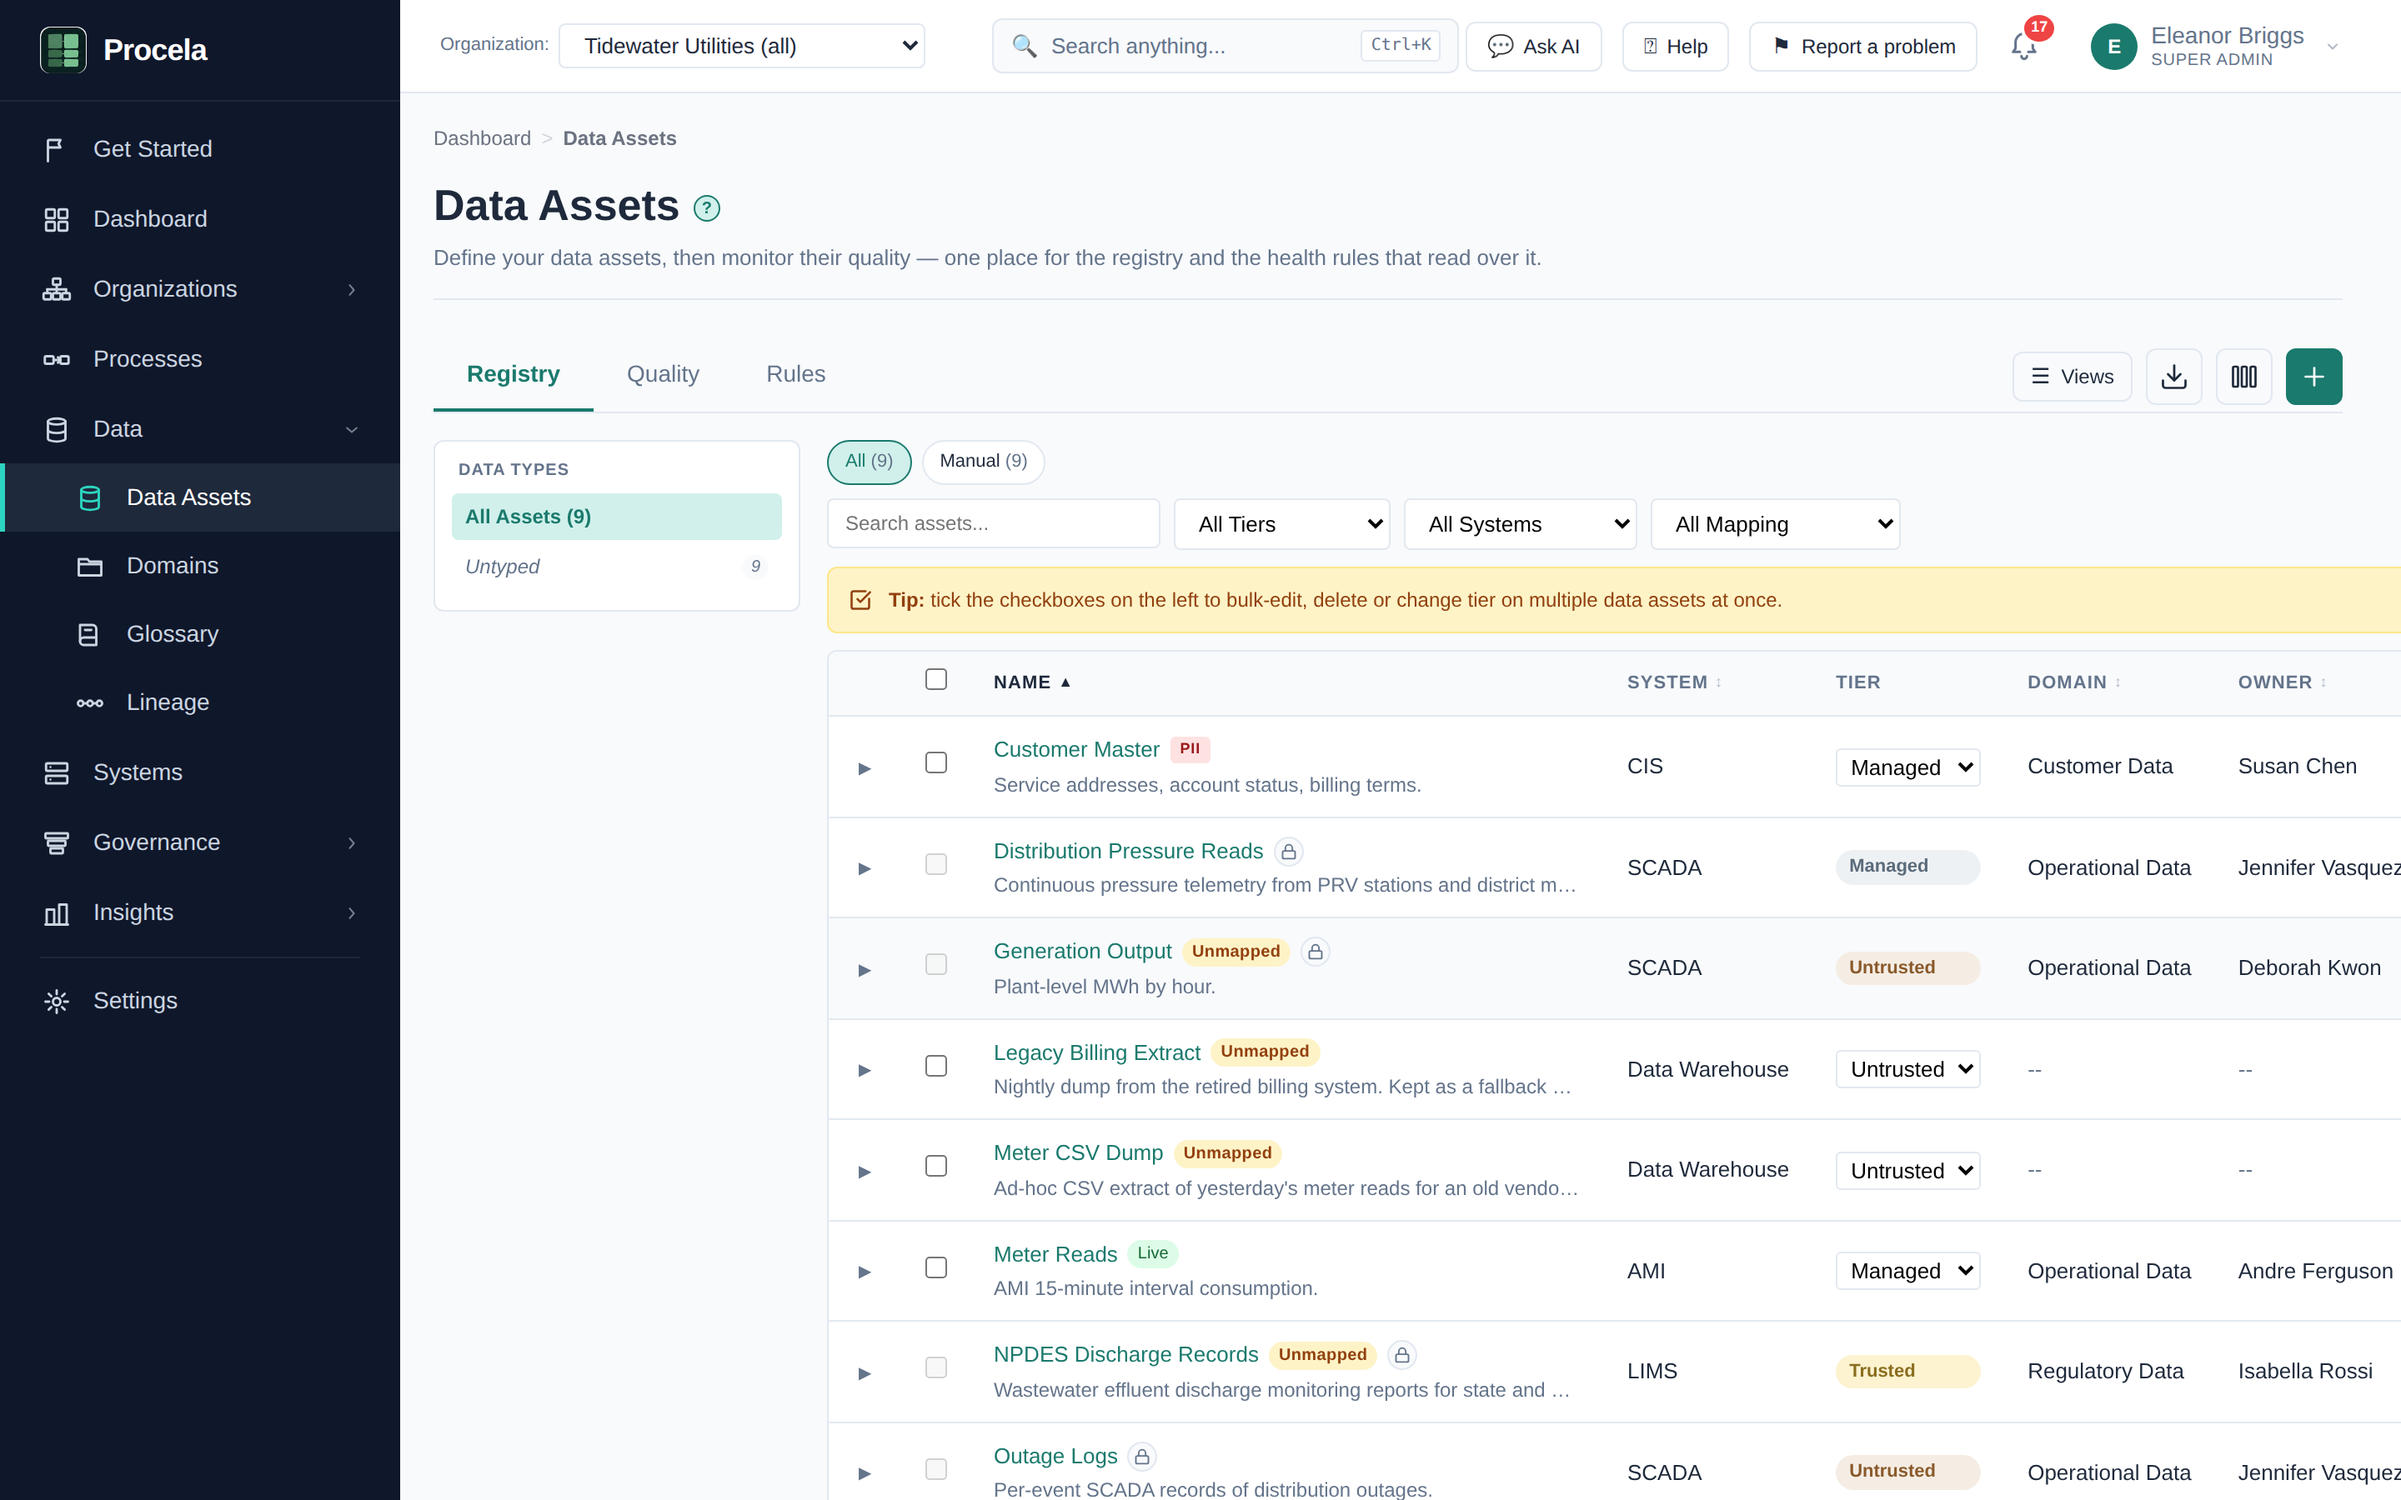
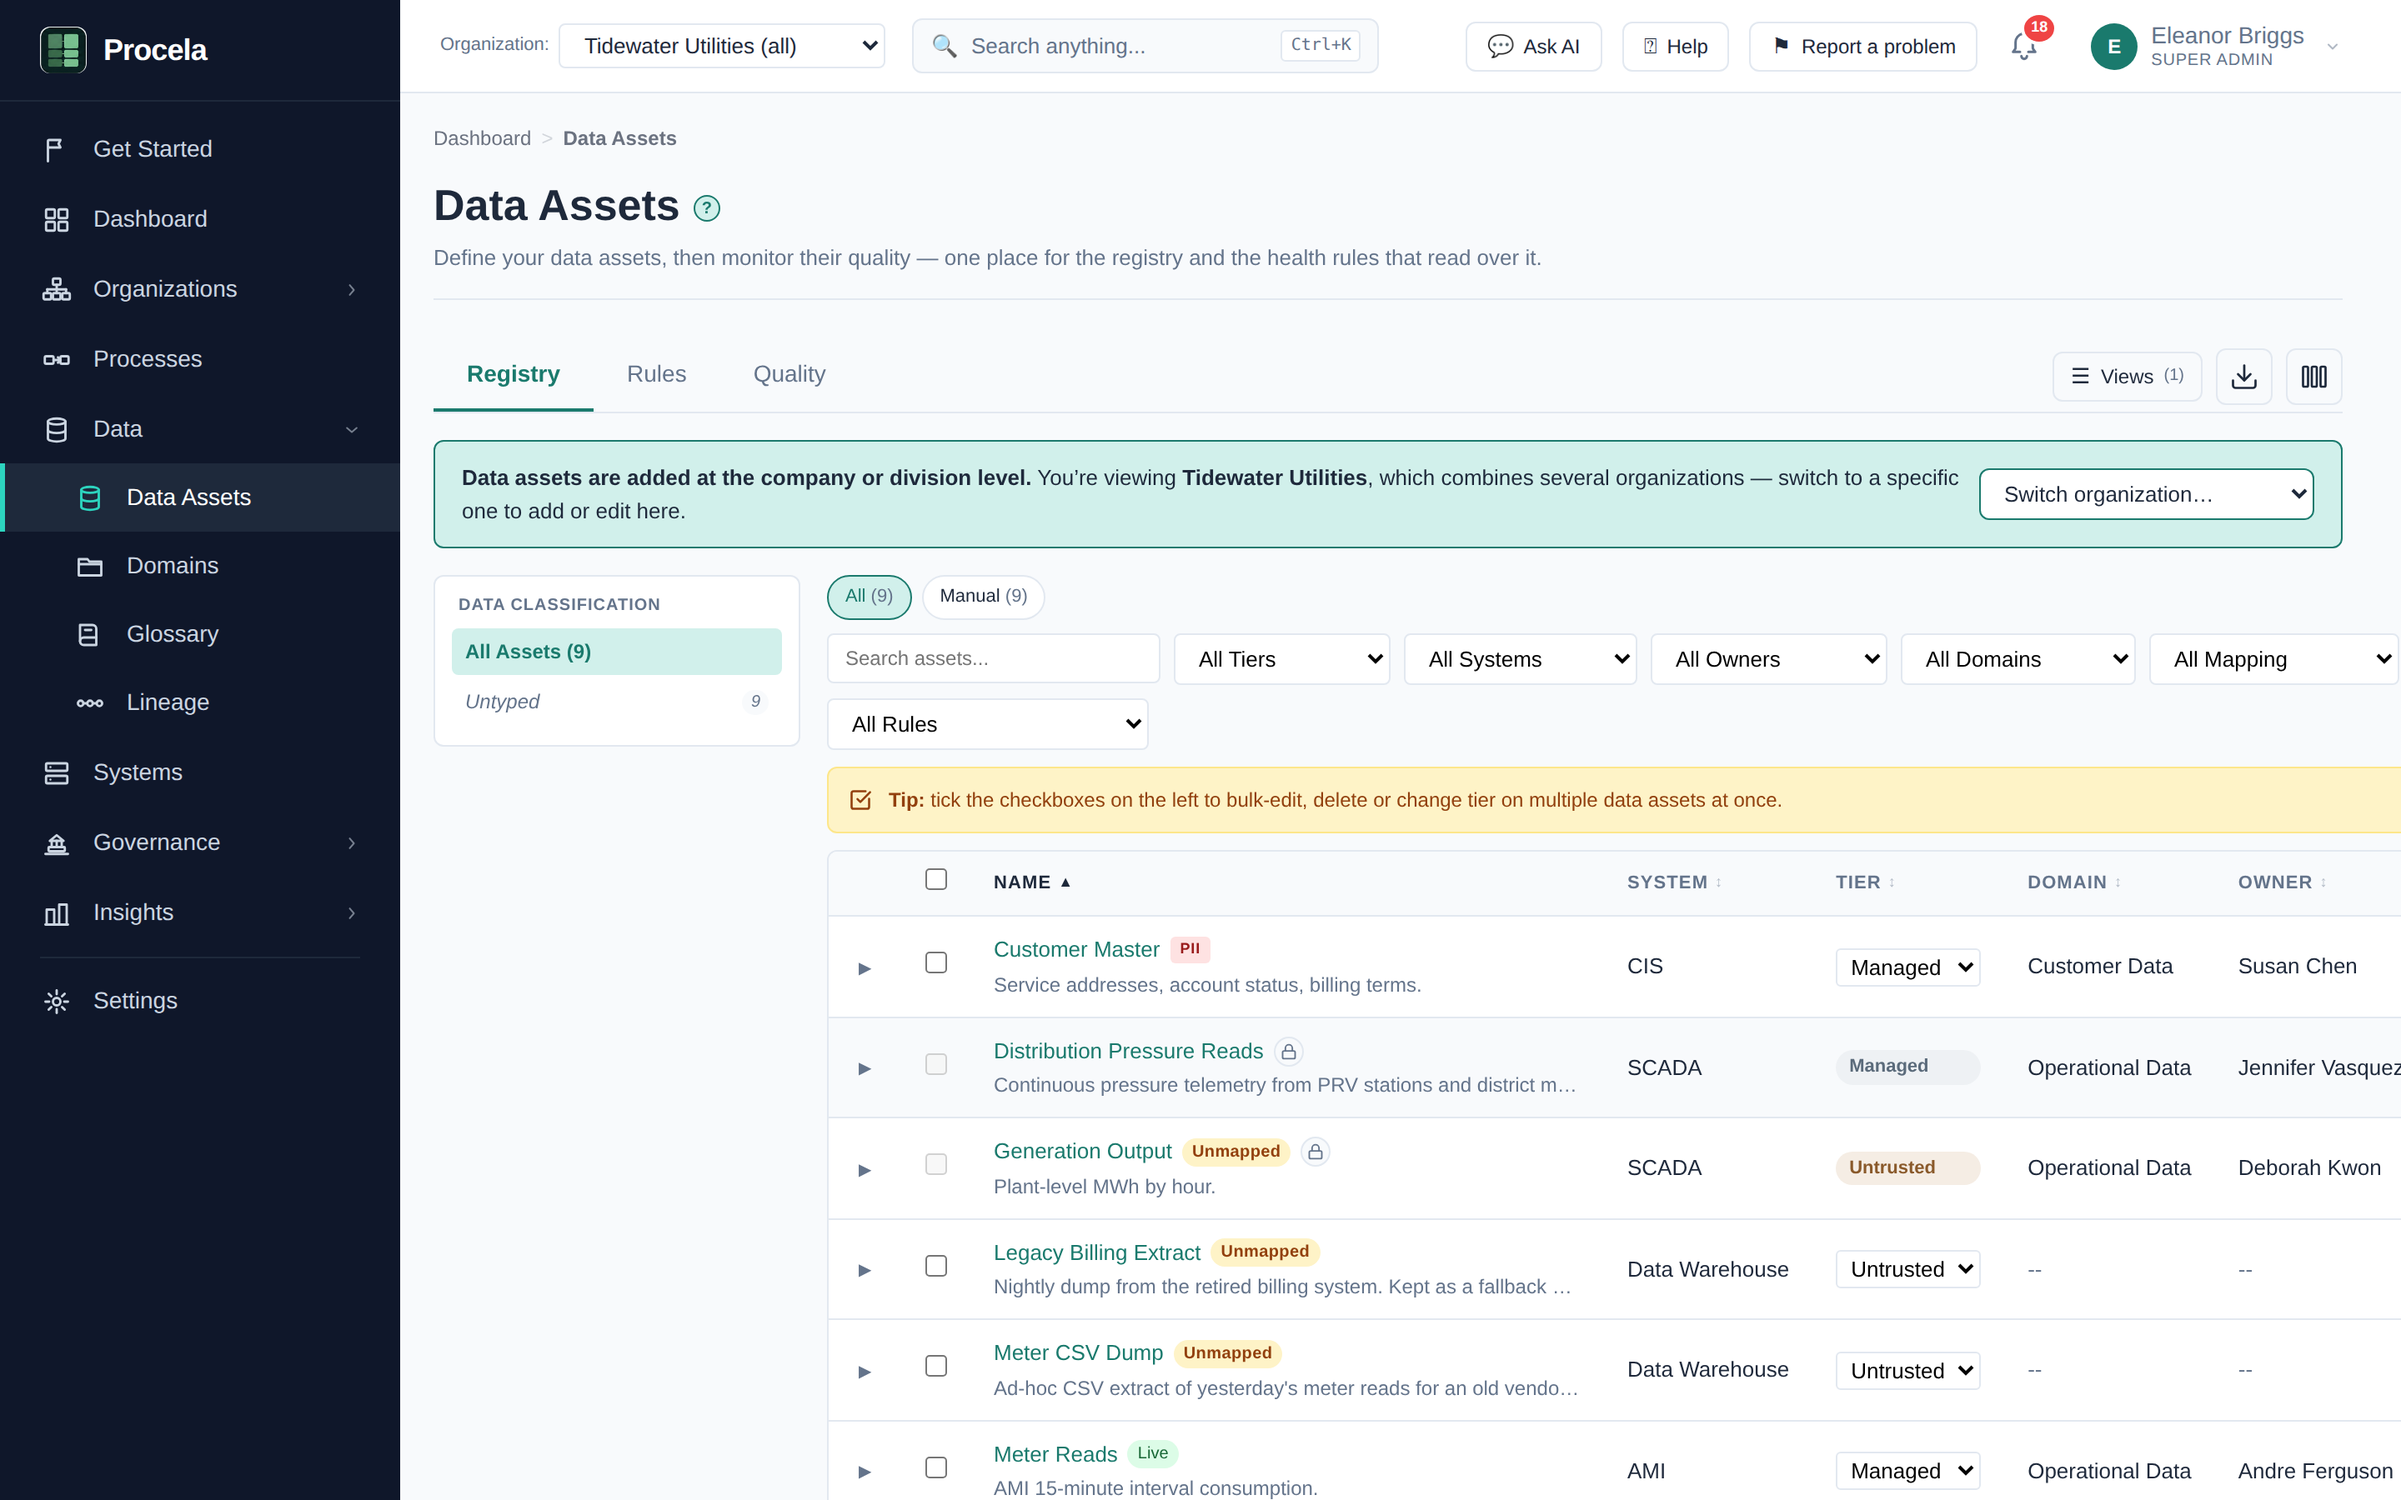
Docs: refresh governance wizard training + Data Assets tab screenshot
Two surfaces drifted behind recent UI changes:

- docs/TRAINING.md §10.1: the "Generate governance processes" walkthrough
  described a direct one-click create and an outdated hierarchy ("Phase 1
  Foundation…"). Update it to the current flow — the wand opens the
  Process Wizard's Review & Apply screen — and the real hierarchy:
  Data Governance Management with six processes and 30 activities.
- Re-shoot the help-guide Data Assets screenshot: it still showed the old
  tab order (Registry → Quality → Rules); it now shows Registry → Rules →
  Quality, matching the shipped hub.

Claude-Session: https://claude.ai/code/session_01BkiUZ8PqyvCGVYEtKwYmjG

diff --git a/docs/TRAINING.md b/docs/TRAINING.md
@@ -940,11 +940,17 @@ The same data, different views — that's the Procela model.
 ### 10.1 Generate governance processes
 
 1. *Working in…* → **Tidewater Utilities** (parent company).
-2. **Processes** → **Generate governance processes** (separate wand
-   from the operational one).
-3. This creates a *governance* value stream alongside the operational
-   ones — Phase 1 Foundation, Phase 2 Design, Phase 3 People &
-   Process, Phase 4 Operationalisation.
+2. **Processes** → **Generate governance processes** (a separate wand
+   from the operational one). It opens the **Process Wizard** in
+   governance mode — the same Review & Apply screen the operational
+   wizard uses, but pre-loaded with the standard framework instead of
+   an AI generation.
+3. Review the hierarchy, then click **Apply … to Catalog**. It creates
+   a *governance* value stream alongside the operational ones —
+   **Data Governance Management**, with six processes (Data Strategy &
+   Policy, Data Quality Management, Data Domain Management, Metadata &
+   Catalog Management, Data Access & Security, Issue & Change
+   Management) and their 30 DAMA-aligned activities.
 
 Now switch **Working in…** back to **Tidewater Electric**. Notice
 two things: the governance value stream you just created
